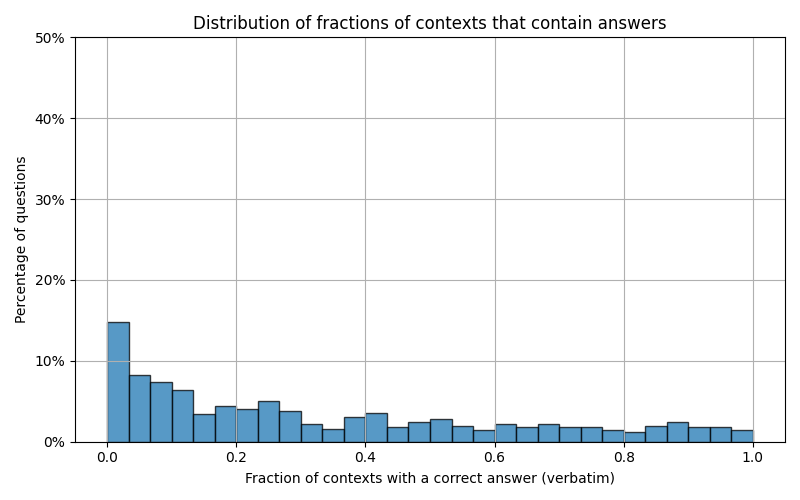
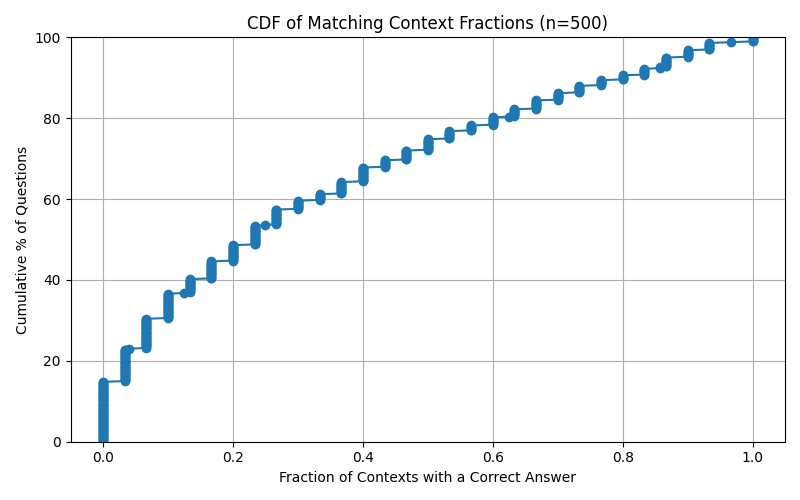
change relevance plots to cdf

diff --git a/data/check_relevance.py b/data/check_relevance.py
@@ -8,7 +8,7 @@ def contains_answer(context_item, answers):
     return any(answer.lower() in title or answer.lower() in text for answer in answers)
 
 def compute_fraction_with_answer(dataset):
-    json_path = f"./data/{dataset}.json"
+    json_path = f"./{dataset}.json"
     with open(json_path, "r", encoding="utf-8") as f:
         data = json.load(f)
 
@@ -34,23 +34,21 @@ def compute_fraction_with_answer(dataset):
         print(f"mean fraction: {np.mean(results):.2f}")
         print(f"SD: {np.std(results):.2f}")
 
-        plt.figure(figsize=(8, 5))
-        counts, bins, patches = plt.hist(fractions, bins=30, range=(0, 1), edgecolor='black', alpha=0.75, density=True)
-        bin_width = bins[1] - bins[0]
-        for patch, count in zip(patches, counts):
-            height = count * bin_width * 100  # percentage height
-            patch.set_height(height)
+        # Sort fractions and compute CDF
+        num_questions = len(fractions)
+        sorted_fracs = np.sort(fractions)
+        cdf = np.arange(1, num_questions + 1) / num_questions * 100  # percentage
 
-        plt.gca().set_ylim([0, 50])
-        plt.gca().set_yticks(np.linspace(0, 50, 6))
-        plt.gca().set_yticklabels([f"{int(x)}%" for x in np.linspace(0, 50, 6)])
-        
-        plt.title("Distribution of fractions of contexts that contain answers")
-        plt.xlabel("Fraction of contexts with a correct answer (verbatim)")
-        plt.ylabel("Percentage of questions")
+        # Plot CDF
+        plt.figure(figsize=(8, 5))
+        plt.plot(sorted_fracs, cdf, marker='o', linestyle='-')
+        plt.title(f"CDF of Matching Context Fractions (n={num_questions})")
+        plt.xlabel("Fraction of Contexts with a Correct Answer")
+        plt.ylabel("Cumulative % of Questions")
         plt.grid(True)
+        plt.ylim([0, 100])
         plt.tight_layout()
-        plt.savefig(f"./data/{dataset}_relevance_dist.png")
+        plt.savefig(f"./{dataset}_relevance_dist.png")
     else:
         print("No valid items to evaluate.")
 
